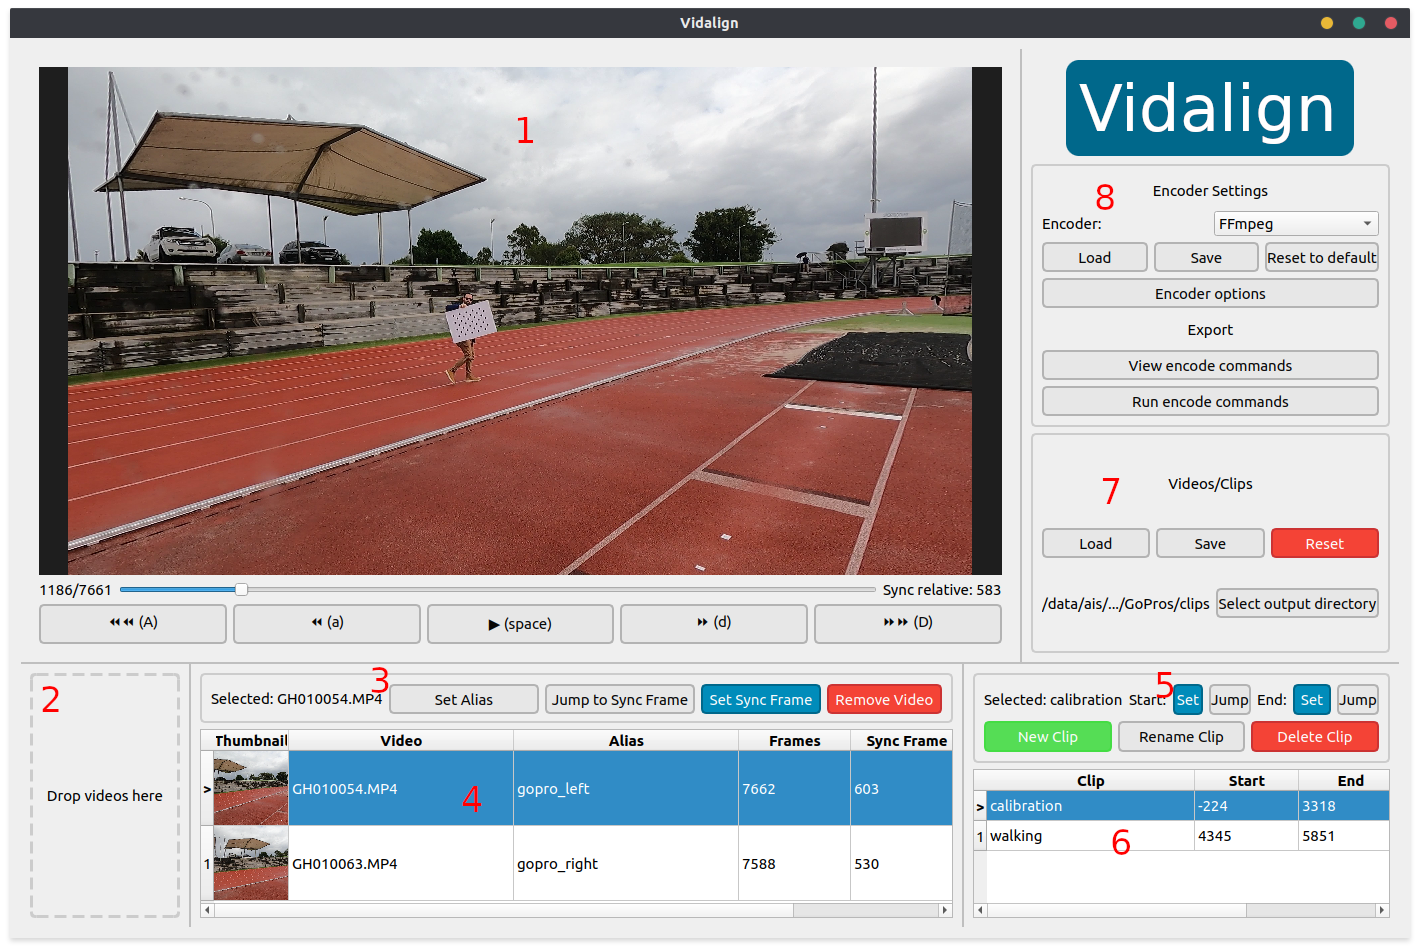
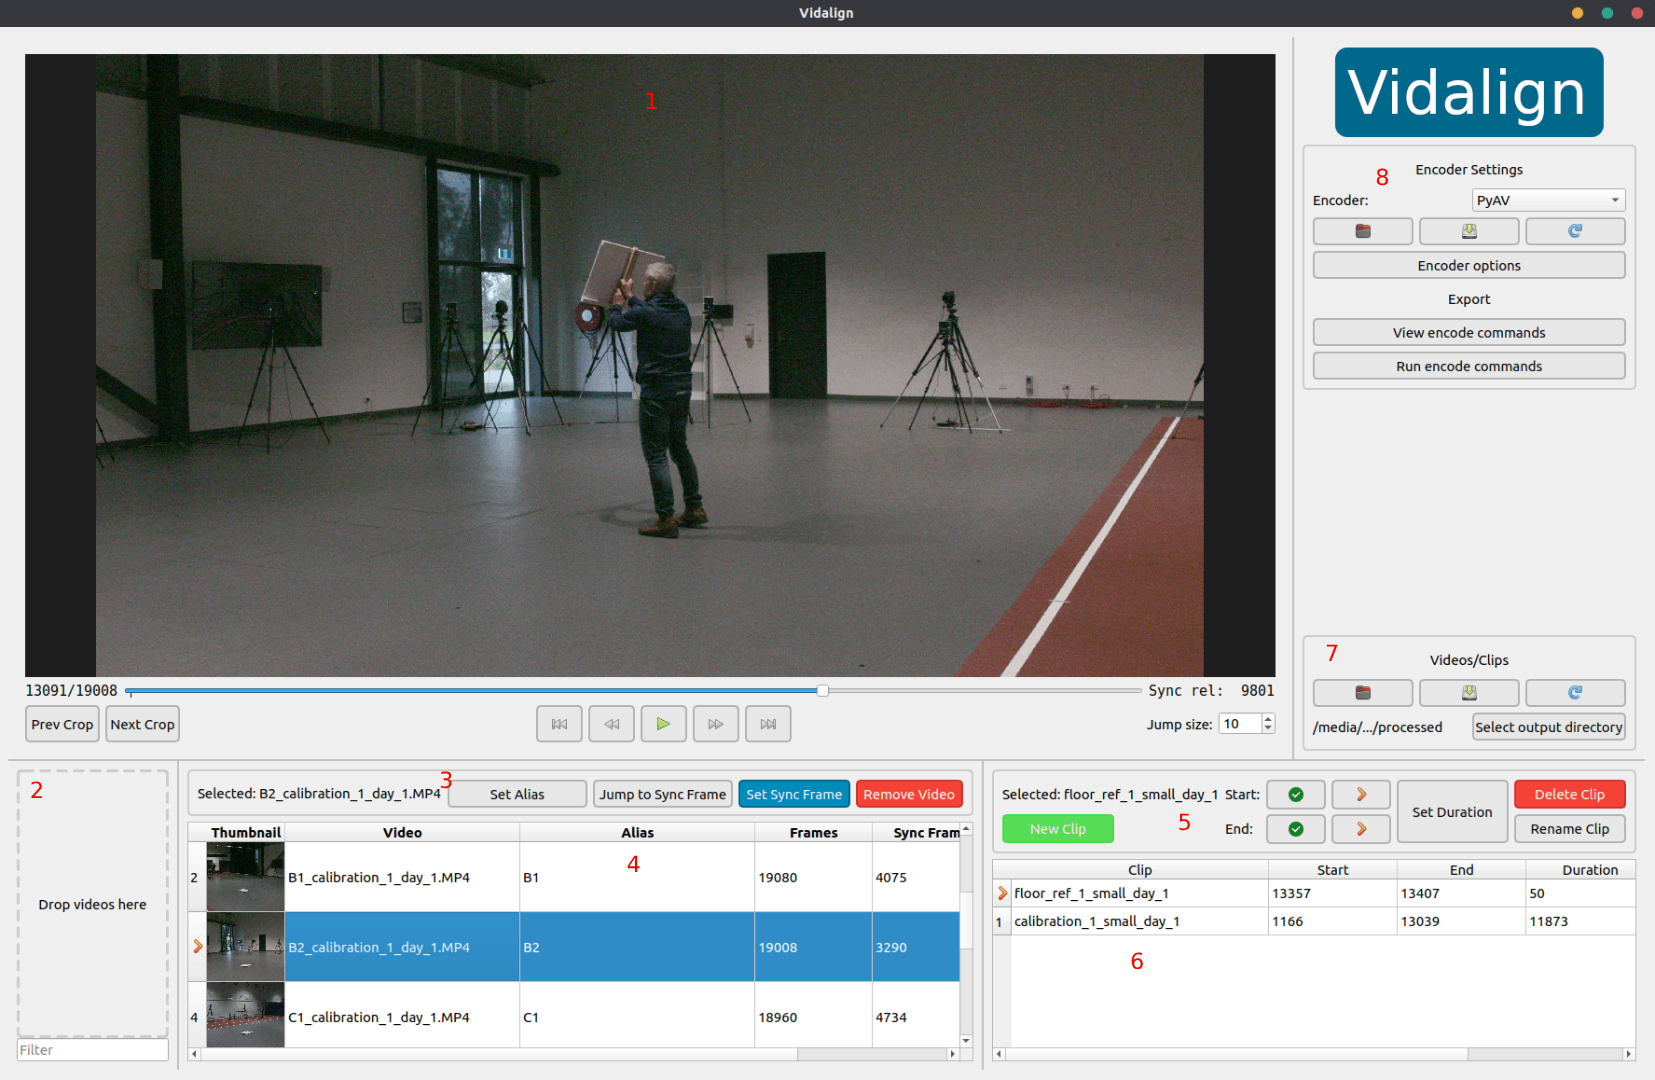
Update readme and UI screenshot

diff --git a/README.md b/README.md
@@ -4,11 +4,13 @@ A tool to perform multi-camera video temporal alignment and clip extraction.
 
 ## Installation
 
-Install Anaconda [here](https://www.anaconda.com/download/success) or Miniconda [here](https://docs.anaconda.com/free/miniconda/miniconda-install/), then run the following commands:
+Install Anaconda [here](https://www.anaconda.com/download/success) or Miniconda [here](https://docs.anaconda.com/free/miniconda/miniconda-install/), then run the below command:
 
 ```bash
 conda env create -f environment.yml;
 ```
+
+> There are likely some system dependencies that need to be installed prior to this setup procedure. Raise an issue if you encounter any such problems, or create a pull request if you know how to fix them.
 
 ## Usage
 
@@ -21,14 +23,14 @@ python -m vidalign;
 
 ![screenshot](vidalign/assets/ui_screenshot.png)
 
-1. **Video Player**: Basic video playback and frame seeking, with support for panning and zooming using the mouse. Take note of the keyboard shortcuts on the playback buttons, as they'll be your best friend.
-2. **Video Dropper**: Drop video files and folders here to import them. Directories will be descended recursively looking for video files. At the time of writing the supported extensions are: `{mp4, avi, mkv, mov, mxf}`.
-3. **Video Info**: Information about the currently selected video, with buttons to set metadata. See [workflow](#workflow) below for more detail.
+1. **Video Player**: Basic video playback and frame seeking, with support for panning and zooming using the mouse. Take note of the keyboard shortcuts by hovering on the playback buttons, as they'll be your best friend. There are also some cropping tools available, see [cropping](#cropping) below.
+2. **Video Dropper**: Drop video files and folders here to import them. Directories will be descended recursively looking for video files. At the time of writing the supported extensions are: `{mp4, avi, mkv, mov, mxf}`. You can optionally filter the video filenames using the text box, with an asterisk (`*`) acting as a wildcard (e.g. `left*` will match any filename starting with "left").
+3. **Video Info**: Information about the currently selected video, with buttons to set sync frames and aliases. See [workflow](#workflow) below for more detail.
 4. **Video List**: List of imported videos. If there are no empty cells here, you've done what's needed for the videos. _Ensure you don't set the same alias for multiple videos!_
 5. **Clip Info**: Information about the currently selected clip, with buttons to set the start and end frames, and other useful things. See [workflow](#workflow) below for more detail.
-6. **Clip List**: List of clips videos. If there are no empty cells here, you've done what's needed for the clips. _Ensure you don't set the same clip name for multiple clips!_
-7. **Video/Clip File Utilities**: Set the output directory for your exported clips, and save/load/reset the videos and clips. Handy if you need to save your progress and return to it later.
-8. **Encoder Settings**: Here you can choose your encoder application (just FFmpeg at this point), configure some of the encoding parameters, and save/load/reset them. If you figure out parameters that you like, export them and load them at the start of each session.
+6. **Clip List**: List of clips. If there are no empty cells here, you've done what's needed for the clips. _Ensure you don't set the same clip name for multiple clips!_
+7. **Video/Clip File Utilities**: Set the output directory for your exported clips, and save/load/reset the videos and clips. Handy if you need to save your progress and return to it later, or just for reproducibility.
+8. **Encoder Settings**: Here you can choose your encoder implementation (either FFmpeg or PyAV), configure some of the encoding parameters, and save/load/reset them. If you figure out parameters that you like, export them and load them at the start of each session.
 
 ### Workflow
 
@@ -45,6 +47,7 @@ python -m vidalign;
 1. Open up the encoder options and check that you're happy with them.
    - Instead you can load a previous encoder configuration from file if you have one prepared.
    - I like using PyAV for encoding, but FFmpeg is also a good choice as it's more tried and tested.
+   - Note that the PyAV implementation currently has a memory leak, so you may need to restart the app after encoding many clips.
 1. View the encoder commands to check that everything is as expected.
    - You can copy-paste them elsewhere if you want to make any changes that the app can't facilitate.
    - This is only available for FFmpeg at the moment.
